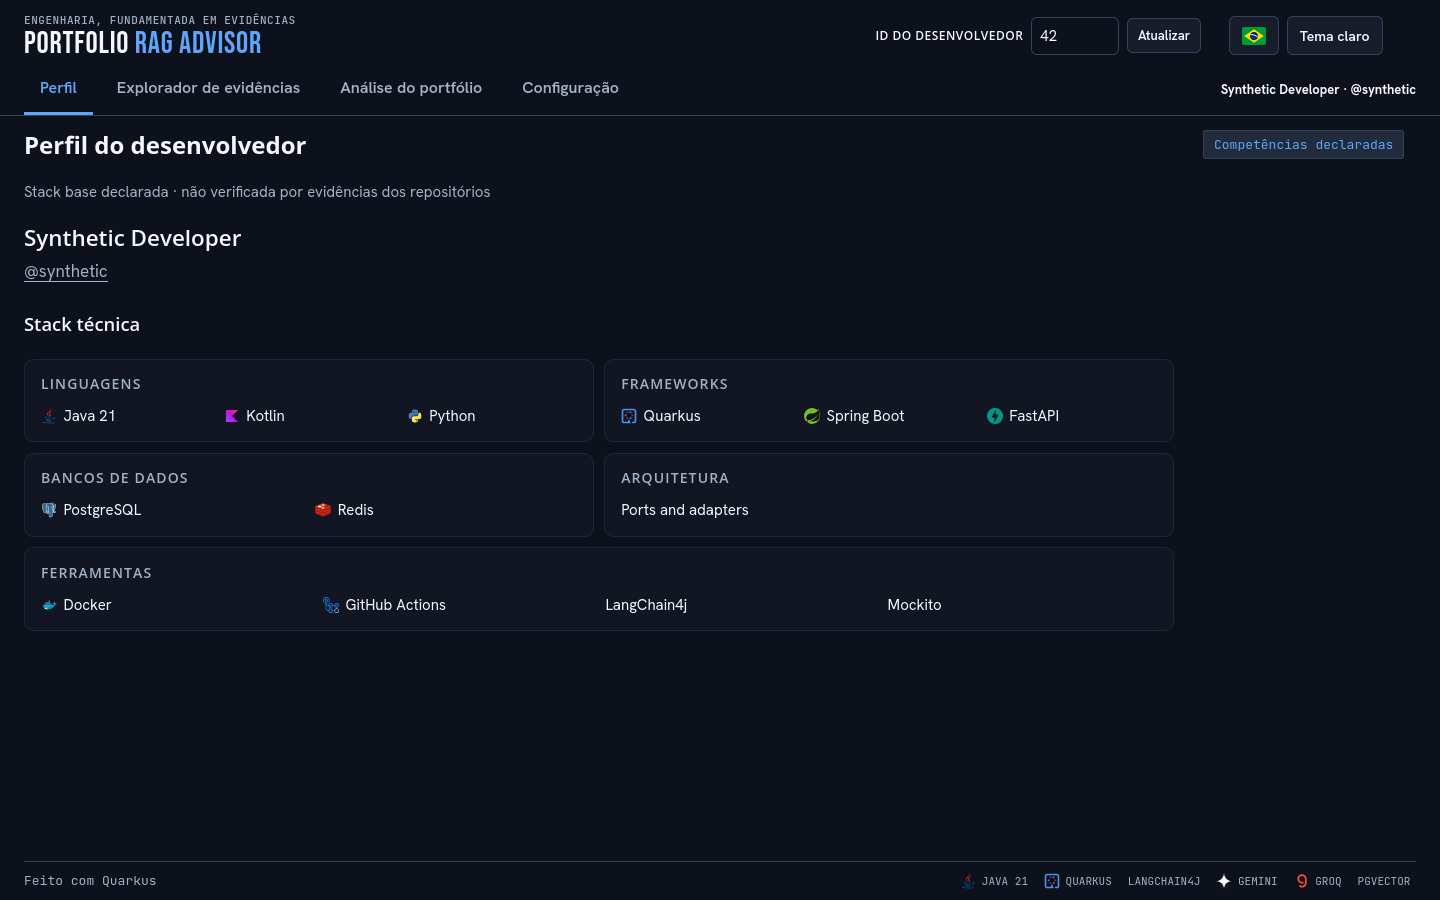
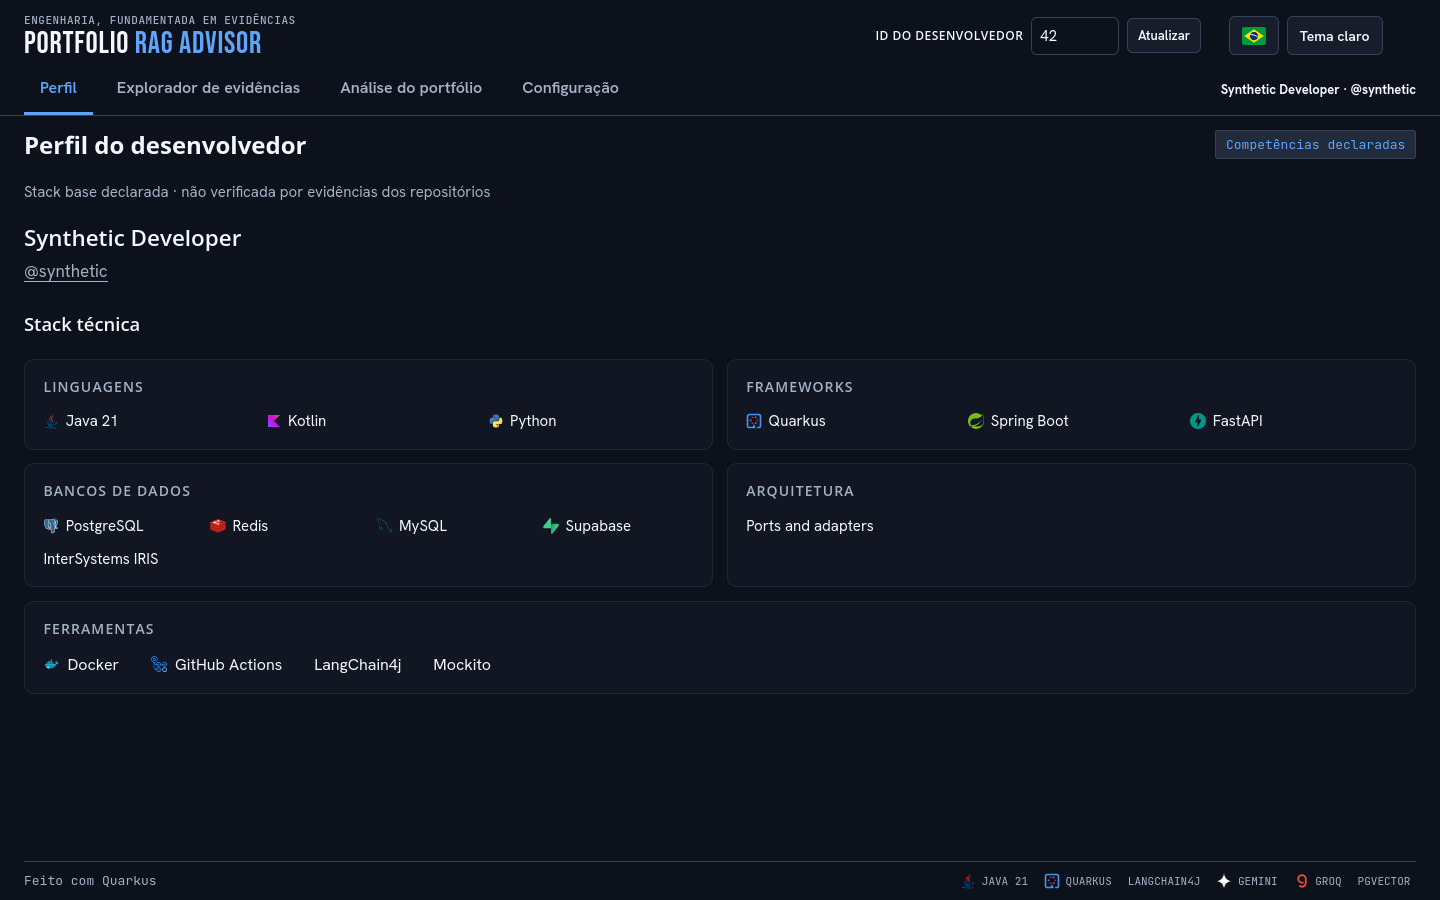
style(ui): restore compact cards with full-width layout

diff --git a/src/main/resources/META-INF/resources/css/app.css b/src/main/resources/META-INF/resources/css/app.css
@@ -389,22 +389,28 @@ progress { width: 100%; height: .65rem; accent-color: var(--primary); }
 .card-stack > .workspace-card, #setup-profile-fields > .workspace-card { margin: 0; }
 
 /* Editorial profile cards: restrained surfaces, two columns and structured rows. */
-#profile .skill-cards { columns: auto; display: grid; grid-template-columns: repeat(2, minmax(0, 1fr)); gap: .65rem; align-items: start; padding-block: .35rem; }
+#profile .skill-cards { width: 100%; min-width: 0; columns: auto; display: grid; grid-template-columns: repeat(2, minmax(0, 1fr)); gap: .85rem; align-items: stretch; padding-block: .35rem; }
 #profile .profile-skill-card {
   display: block;
-  width: auto;
+  width: 100%;
+  min-width: 0;
   margin: 0;
-  padding: .85rem 1rem;
+  padding: 1rem 1.15rem;
   border: 1px solid color-mix(in srgb, var(--border) 38%, transparent);
   border-radius: .6rem;
   background: color-mix(in srgb, var(--surface) 45%, var(--background));
   box-shadow: none;
 }
-#profile .profile-skill-card h4 { margin: 0 0 .65rem; color: var(--muted); font: 600 .875rem/1.5 var(--heading); letter-spacing: .08em; text-transform: uppercase; }
-#profile .profile-skill-card .technologies { display: grid; grid-template-columns: repeat(auto-fit, minmax(9rem, 1fr)); gap: .45rem .8rem; align-items: start; }
+#profile .profile-skill-card h4 { margin: 0 0 .8rem; color: var(--muted); font: 600 .875rem/1.5 var(--heading); letter-spacing: .08em; text-transform: uppercase; }
+#profile .profile-skill-card .technologies { display: grid; grid-template-columns: repeat(auto-fit, minmax(9rem, 1fr)); gap: .6rem 1rem; align-items: start; }
 #profile .profile-skill-card .technology { min-width: 0; gap: .4rem; font-size: .9375rem; line-height: 1.55; align-items: center; }
 #profile .profile-skill-card .technology > span { overflow-wrap: anywhere; }
 #profile .profile-skill-card .technology-logo { width: 16px; height: 16px; }
 #profile .skill-group--wide { grid-column: 1 / -1; }
-#profile .skill-group--wide .technologies { grid-template-columns: repeat(auto-fit, minmax(10rem, 1fr)); }
+#profile .skill-group--wide .technologies { display: flex; flex-wrap: wrap; gap: .85rem 2rem; }
+#profile .skill-group--wide .technology { gap: .5rem; font-size: 1rem; line-height: 1.6; }
 @media (max-width: 700px) { #profile .skill-cards { grid-template-columns: 1fr; } #profile .skill-group--wide { grid-column: auto; } }
+
+/* Full horizontal use without stretching the content-sized cards vertically. */
+.application #profile { scrollbar-gutter: auto; }
+#profile .profile-content, #profile #profile-result { width: 100%; min-width: 0; max-width: none; }

diff --git a/src/main/resources/templates/index.html b/src/main/resources/templates/index.html
@@ -6,9 +6,9 @@
   <meta name="description" content="Explore engineering portfolios with semantic evidence and grounded analysis.">
   <title>Portfolio RAG Advisor</title>
   <script src="/js/i18n.js?v=editorial-profile-3"></script>
-  <link rel="stylesheet" href="/css/app.css?v=editorial-profile-3">
+  <link rel="stylesheet" href="/css/app.css?v=compact-stack-6">
   <script src="/js/technology-logos.js?v=onboarding-2" defer></script>
-  <script src="/js/app.js?v=editorial-profile-3" defer></script>
+  <script src="/js/app.js?v=compact-stack-6" defer></script>
   <script src="/js/setup.js?v=onboarding-2" defer></script>
 </head>
 <body class="application">

diff --git a/src/main/resources/META-INF/resources/js/app.js b/src/main/resources/META-INF/resources/js/app.js
@@ -165,7 +165,7 @@ async function loadProfile() {
       const names = skills.filter(skill => skill.category === category).map(skill => skill.name);
       if (names.length) {
         const group = element('section', null, 'skill-group workspace-card profile-skill-card'
-          + (category === 'TOOL' && names.length >= 4 ? ' skill-group--wide' : ''));
+          + (category === 'TOOL' ? ' skill-group--wide' : ''));
         group.append(uiElement('h4', label), technologyTags(names));
         skillCards.append(group);
       }
